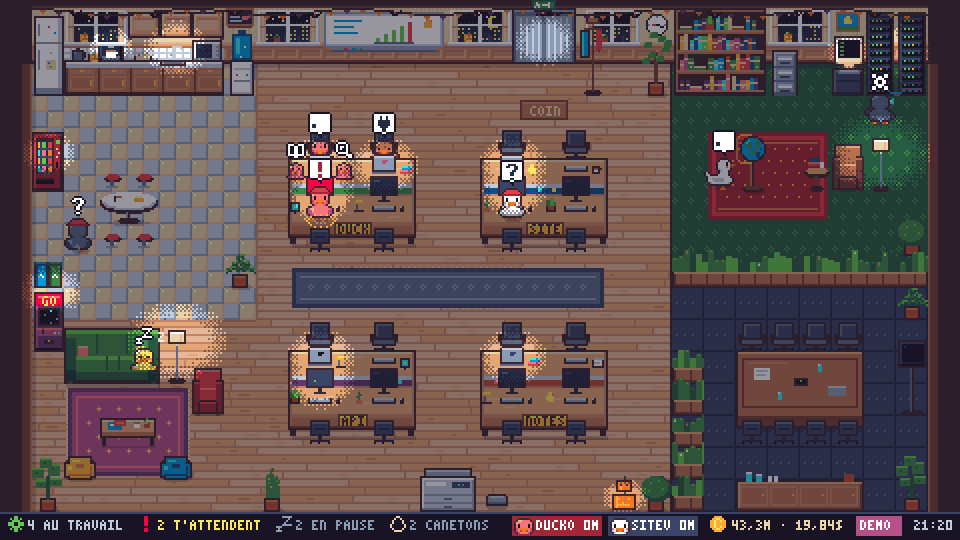
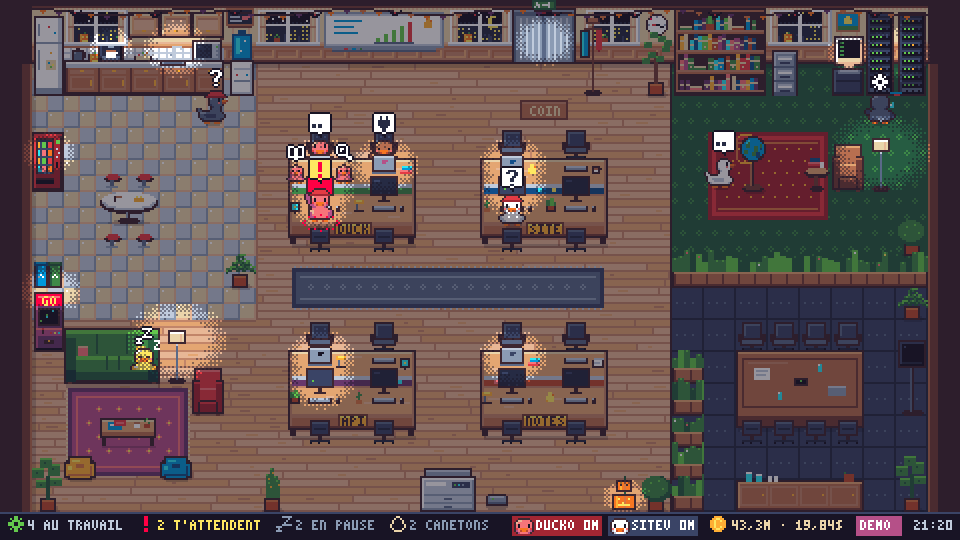
Canards sur leur bureau : plus de canard qui marche sur l'écran
- Les îlots sont dessinés en deux couches : le bureau du fond et ses
  portables, puis la cloison, le bureau de devant et les écrans
- Le canard qui nous fait face se tient sur son bureau derrière l'écran d'en
  face ; celui d'en face monte au bord de son bureau, devant son clavier, et
  son écran reste visible au-dessus de sa tête
- Scénario de capture --scenario=wait (tout le monde attend sur son bureau)
- GIF et captures du README régénérés

diff --git a/src/renderer/office.js b/src/renderer/office.js
@@ -102,7 +102,10 @@
         tile: { c: pod.c + 2 * i, r: north ? pod.r : pod.r + 3 },
         point: { x: cx, y: north ? Y0 + 13 : Y0 + 61 },
         sit: { x: cx - 8, y: north ? Y0 + 4 : Y0 + 40, anchor: north ? Y0 + 20 : Y0 + 56, view: north ? 'front' : 'back' },
-        desk: { x: cx, y: north ? Y0 + 26 : Y0 + 45, anchor: Y0 + 54.5 },
+        // standing on the desk (waiting for you): the north duck stands behind the monitors
+        // across (drawn between the two layers of the bench), the south duck on the front
+        // edge of its desk, so its own monitor stays visible above its head
+        desk: north ? { x: cx, y: Y0 + 23, anchor: Y0 + 30 } : { x: cx, y: Y0 + 48, anchor: Y0 + 54.5 },
         perches: north
           ? [{ x: cx - 12, y: Y0 + 27 }, { x: cx + 12, y: Y0 + 27 }]
           : [{ x: cx - 13, y: Y0 + 46 }, { x: cx + 12, y: Y0 + 46 }],
@@ -960,38 +963,49 @@
       if (s.side === 'n') parts.push({ y: Y0 + 14, draw: (g) => drawChairNorth(g, s.cx, Y0) });
       else parts.push({ y: Y0 + 61, draw: (g) => drawChairSouth(g, s.cx, Y0 + 48) });
     }
+    // The bench is drawn in two layers, so that a duck standing on the north desk goes
+    // between them: the north desk (with its laptops) behind it, the divider, the south
+    // desk and its monitors in front of it.
+    parts.push({
+      y: Y0 + 21,
+      draw: (g, now) => {
+        g.drawImage(bench(), 0, 0, 64, 13, X0, Y0 + 15, 64, 13);
+        for (const s of seats) {
+          if (s.side !== 'n') continue;
+          const st = dyn.seats[s.id];
+          drawProp(g, DESK_PROPS[DO.hash(s.id) % DESK_PROPS.length], s.cx + 8, Y0 + 19, !!st, now);
+          if (st) {
+            // open laptop: we see the back of its lid and a sliver of its base
+            R(g, s.cx - 6, Y0 + 13, 12, 9, C.outline);
+            R(g, s.cx - 5, Y0 + 14, 10, 7, C.grey);
+            R(g, s.cx - 5, Y0 + 14, 10, 1, C.silver);
+            P(g, s.cx - 6, Y0 + 13, C.wood); P(g, s.cx + 5, Y0 + 13, C.wood); // rounded corners
+            const logo = seatScreenColor(st, now) || C.white;
+            R(g, s.cx - 1, Y0 + 16, 2, 2, logo); P(g, s.cx + 1, Y0 + 16, logo);
+            R(g, s.cx - 6, Y0 + 22, 12, 1, C.steel);
+          } else {
+            R(g, s.cx - 6, Y0 + 19, 12, 3, C.outline); R(g, s.cx - 5, Y0 + 19, 10, 1, C.silver); R(g, s.cx - 5, Y0 + 20, 10, 1, C.grey);
+          }
+        }
+      },
+    });
     parts.push({
       y: Y0 + 54,
       draw: (g, now) => {
-        g.drawImage(bench(), X0, Y0 + 15);
+        g.drawImage(bench(), 0, 13, 64, 30, X0, Y0 + 28, 64, 30);
         for (const s of seats) {
+          if (s.side === 'n') continue;
           const st = dyn.seats[s.id];
           const prop = DESK_PROPS[DO.hash(s.id) % DESK_PROPS.length];
-          if (s.side === 'n') {
-            drawProp(g, prop, s.cx + 8, Y0 + 19, !!st, now);
-            if (st) {
-              // open laptop: we see the back of its lid and a sliver of its base
-              R(g, s.cx - 6, Y0 + 13, 12, 9, C.outline);
-              R(g, s.cx - 5, Y0 + 14, 10, 7, C.grey);
-              R(g, s.cx - 5, Y0 + 14, 10, 1, C.silver);
-              P(g, s.cx - 6, Y0 + 13, C.wood); P(g, s.cx + 5, Y0 + 13, C.wood); // rounded corners
-              const logo = seatScreenColor(st, now) || C.white;
-              R(g, s.cx - 1, Y0 + 16, 2, 2, logo); P(g, s.cx + 1, Y0 + 16, logo);
-              R(g, s.cx - 6, Y0 + 22, 12, 1, C.steel);
-            } else {
-              R(g, s.cx - 6, Y0 + 19, 12, 3, C.outline); R(g, s.cx - 5, Y0 + 19, 10, 1, C.silver); R(g, s.cx - 5, Y0 + 20, 10, 1, C.grey);
-            }
-          } else {
-            drawProp(g, prop === 'mug' ? 'lamp' : prop, s.cx - 15, Y0 + 37, !!st, now);
-            // monitor on its stand, keyboard and mouse
-            R(g, s.cx - 7, Y0 + 24, 14, 10, C.outline);
-            R(g, s.cx - 6, Y0 + 25, 12, 8, st ? seatScreenColor(st, now) : C.navy);
-            if (st && !dyn.blackout) drawScreenContent(g, s.cx - 6, Y0 + 25, st, now);
-            else R(g, s.cx - 5, Y0 + 26, 3, 1, C.slate); // reflection on the dark screen
-            R(g, s.cx - 1, Y0 + 34, 2, 2, C.outline); R(g, s.cx - 3, Y0 + 36, 6, 1, C.outline);
-            R(g, s.cx - 6, Y0 + 39, 12, 3, C.outline); R(g, s.cx - 5, Y0 + 39, 10, 1, C.silver); R(g, s.cx - 5, Y0 + 40, 10, 1, C.grey);
-            R(g, s.cx + 8, Y0 + 39, 2, 3, C.outline); P(g, s.cx + 8, Y0 + 39, C.silver);
-          }
+          drawProp(g, prop === 'mug' ? 'lamp' : prop, s.cx - 15, Y0 + 37, !!st, now);
+          // monitor on its stand, keyboard and mouse
+          R(g, s.cx - 7, Y0 + 24, 14, 10, C.outline);
+          R(g, s.cx - 6, Y0 + 25, 12, 8, st ? seatScreenColor(st, now) : C.navy);
+          if (st && !dyn.blackout) drawScreenContent(g, s.cx - 6, Y0 + 25, st, now);
+          else R(g, s.cx - 5, Y0 + 26, 3, 1, C.slate); // reflection on the dark screen
+          R(g, s.cx - 1, Y0 + 34, 2, 2, C.outline); R(g, s.cx - 3, Y0 + 36, 6, 1, C.outline);
+          R(g, s.cx - 6, Y0 + 39, 12, 3, C.outline); R(g, s.cx - 5, Y0 + 39, 10, 1, C.silver); R(g, s.cx - 5, Y0 + 40, 10, 1, C.grey);
+          R(g, s.cx + 8, Y0 + 39, 2, 3, C.outline); P(g, s.cx + 8, Y0 + 39, C.silver);
         }
         // the project's nameplate on the front of the bench (none for the home folder)
         const label = dyn.podLabels[pod.id];

diff --git a/src/renderer/sim.js b/src/renderer/sim.js
@@ -165,6 +165,13 @@
     s5.next = now + 30000;
     s6.next = now + 1000; s7.next = now + 1000;
     if (scenario === 'hatch') { s8.next = now + 600; s8.forceAgent = true; s8.async = false; }
+    if (scenario === 'wait') {
+      // everybody waits for you, standing on their desks: shows both sides of the islands
+      sessions.forEach((s, i) => {
+        setState(s, i % 2 ? 'input' : 'permission', now - 1000, i % 2 ? null : toolFor('exec', now - 1000));
+        s.next = now + 10 * MIN;
+      });
+    }
     if (scenario === 'busy') {
       // everybody at their desk: shows both seating directions
       sessions.forEach((s, i) => {

diff --git a/README.md b/README.md
@@ -197,7 +197,7 @@ Le mode capture enregistre une image sans ouvrir de fenêtre, pratique pour vér
 node_modules/electron/dist/electron.exe . --capture=shot.png --demo --no-tracker --hour=22 --seed=7
 ```
 
-Options : `--scale=3`, `--crop=x,y,w,h`, `--select=0` (ouvre une fiche), `--bilan`, `--scenario=hatch|arrive|busy`, `--frames=90 --frame-interval=110` (une série d'images, comme pour l'animation ci-dessus), `--capture-delay=4000`, `--weather=clear|cloudy|rain|storm|snow`, `--date=2026-12-24` (décor de saison), `--event=pigeon|sky|blackout|coffee|printer|robot|arcade|cat|pizza|birthday|watering --event-at=500` (force un événement). Lance les captures une par une : en parallèle, elles se disputent le même dossier de cache.
+Options : `--scale=3`, `--crop=x,y,w,h`, `--select=0` (ouvre une fiche), `--bilan`, `--scenario=hatch|arrive|busy|wait` (wait : tout le monde attend, debout sur son bureau), `--frames=90 --frame-interval=110` (une série d'images, comme pour l'animation ci-dessus), `--capture-delay=4000`, `--weather=clear|cloudy|rain|storm|snow`, `--date=2026-12-24` (décor de saison), `--event=pigeon|sky|blackout|coffee|printer|robot|arcade|cat|pizza|birthday|watering --event-at=500` (force un événement). Lance les captures une par une : en parallèle, elles se disputent le même dossier de cache.
 
 Tout le pixel art est **dessiné par le code**, sans aucun fichier image : les sprites sont des grilles de caractères dans `sprites.js`, les meubles des rectangles dans `office.js`. La palette est [ENDESGA 32](https://lospec.com/palette-list/endesga-32), et l'image interne fait 480 × 270 pixels, agrandie d'un facteur entier pour rester nette.
 

diff --git a/CLAUDE.md b/CLAUDE.md
@@ -24,4 +24,4 @@ Claude Code sessions as pixel-art ducks in an open space. The user speaks French
 ## Checks
 
 - `npm test` (Node 24, glob form) — tracker + duck behaviour with a fake clock + office map (everything reachable, no furniture painted over walkable floor or over other furniture, walking ducks never cross furniture).
-- Visual check: `node_modules/electron/dist/electron.exe . --capture=out.png --demo --no-tracker --hour=14 --seed=7 [--scale=5 --crop=x,y,w,h --select=0 --scenario=hatch|arrive --weather=rain --date=2026-12-24 --event=pizza --event-at=500 --capture-delay=20000]`, then look at the PNG. One capture at a time (parallel ones share a cache folder and hang).
+- Visual check: `node_modules/electron/dist/electron.exe . --capture=out.png --demo --no-tracker --hour=14 --seed=7 [--scale=5 --crop=x,y,w,h --select=0 --scenario=hatch|arrive|busy|wait --weather=rain --date=2026-12-24 --event=pizza --event-at=500 --capture-delay=20000]`, then look at the PNG. One capture at a time (parallel ones share a cache folder and hang).
